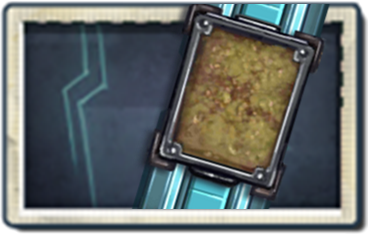
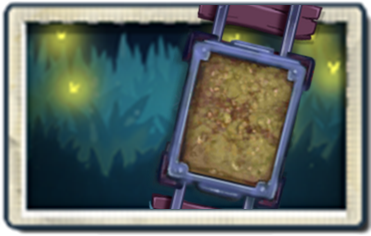
新增检查关卡编辑器对象的脚本，更新LevelDraft接口以支持种子银行功能

diff --git a/src/components/level-editor/App.vue b/src/components/level-editor/App.vue
@@ -215,6 +215,7 @@ interface LevelDraft {
   includePlants: string[];
   excludePlants: string[];
   unlockAll: boolean;
+  hasSeedBank: boolean;
   seedBankExtra: Record<string, any>;
   boardItems: BoardItem[];
   waves: WaveDraft[];
@@ -546,6 +547,7 @@ function createDefaultDraft(): LevelDraft {
     includePlants: [],
     excludePlants: [],
     unlockAll: false,
+    hasSeedBank: true,
     seedBankExtra: {},
     boardItems: [],
     waves: [
@@ -973,7 +975,8 @@ function handleUpload(file: File) {
 function parseLevel(raw: any): LevelDraft {
   const objects = Array.isArray(raw?.objects) ? raw.objects : [];
   const level = objects.find((object: any) => object?.objclass === 'LevelDefinition')?.objdata || {};
-  const seed = objects.find((object: any) => object?.objclass === 'SeedBankProperties')?.objdata || {};
+  const seedObject = objects.find((object: any) => object?.objclass === 'SeedBankProperties');
+  const seed = seedObject?.objdata || {};
   const waveManagerModule = objects.find((object: any) => object?.objclass === 'WaveManagerModuleProperties');
   const waveManagerObject = objects.find((object: any) => object?.objclass === 'WaveManagerProperties');
   const waveProps = waveManagerObject?.objdata || {};
@@ -1153,6 +1156,7 @@ function parseLevel(raw: any): LevelDraft {
     includePlants: normalizePlantCodes(Array.isArray(seed.PlantIncludeList) ? seed.PlantIncludeList : []),
     excludePlants: normalizePlantCodes(Array.isArray(seed.PlantExcludeList) ? seed.PlantExcludeList : []),
     unlockAll: seed.UnlockAll === true,
+    hasSeedBank: !!seedObject,
     seedBankExtra: omitKeys(seed, ['SelectionMethod', 'UnlockAll', 'OverrideSeedSlotsCount', 'PresetPlantList', 'PlantIncludeList', 'PlantExcludeList']),
     boardItems,
     waves: waves.length ? waves : [],
@@ -1302,6 +1306,16 @@ function serializeLevel() {
   const shouldEmitWaveManager =
     !!preserveGeneratorWaveSystem || !!preserveCustomWaveManager || draft.value.hasWaveManager || draft.value.waves.length > 0;
   const shouldReferenceWaveManager = draft.value.moduleRefs.includes(NEW_WAVES_REF) || (draft.value.waveSystemDirty && draft.value.waves.length > 0);
+  const shouldEmitSeedBank =
+    draft.value.hasSeedBank ||
+    draft.value.moduleRefs.includes('RTID(SeedBank@CurrentLevel)') ||
+    normalizedSeedPlants.length > 0 ||
+    draft.value.includePlants.length > 0 ||
+    draft.value.excludePlants.length > 0 ||
+    draft.value.unlockAll ||
+    draft.value.seedMode === 'preset' ||
+    seedSlots !== MAX_SEED_PLANTS ||
+    Object.keys(draft.value.seedBankExtra || {}).length > 0;
   const usedActionAliases = new Set<string>([
     'SeedBank',
     'NewWaves',
@@ -1326,6 +1340,7 @@ function serializeLevel() {
     return alias;
   };
   const waveObjects: any[] = [];
+  const emittedRawActionAliases = new Map<string, string>();
   const waveRefs = draft.value.waves.map((wave, index) => {
     const refs: string[] = [];
     if (wave.zombies.length || wave.zombieActionAlias) {
@@ -1347,6 +1362,12 @@ function serializeLevel() {
       refs.push(`RTID(${alias}@CurrentLevel)`);
     }
     wave.rawActions.forEach((action, actionIndex) => {
+      const rawActionKey = action.alias || '';
+      const existingAlias = rawActionKey ? emittedRawActionAliases.get(rawActionKey) : undefined;
+      if (existingAlias) {
+        refs.push(`RTID(${existingAlias}@CurrentLevel)`);
+        return;
+      }
       const alias = uniqueActionAlias(action.alias || `Wave${index + 1}Action${actionIndex}`);
       waveObjects.push({
         aliases: [alias],
@@ -1354,6 +1375,7 @@ function serializeLevel() {
         objdata: parseActionObjdata(action)
       });
       refs.push(`RTID(${alias}@CurrentLevel)`);
+      if (rawActionKey) emittedRawActionAliases.set(rawActionKey, alias);
     });
     return refs;
   });
@@ -1409,13 +1431,16 @@ function serializeLevel() {
         Modules: buildModuleRefs(mowerModule, sunDropperModule, shouldReferenceWaveManager, generatedBoardRefs),
         ...(draft.value.author.trim() ? { WritenBy: draft.value.author.trim() } : {})
       }
-    },
-    {
+    }
+  ];
+
+  if (shouldEmitSeedBank) {
+    objects.push({
       aliases: ['SeedBank'],
       objclass: 'SeedBankProperties',
       objdata: seedBankData
-    }
-  ];
+    });
+  }
 
   if (preserveGeneratorWaveSystem) {
     objects.push(cloneJson(draft.value.preservedWaveManagerModule));